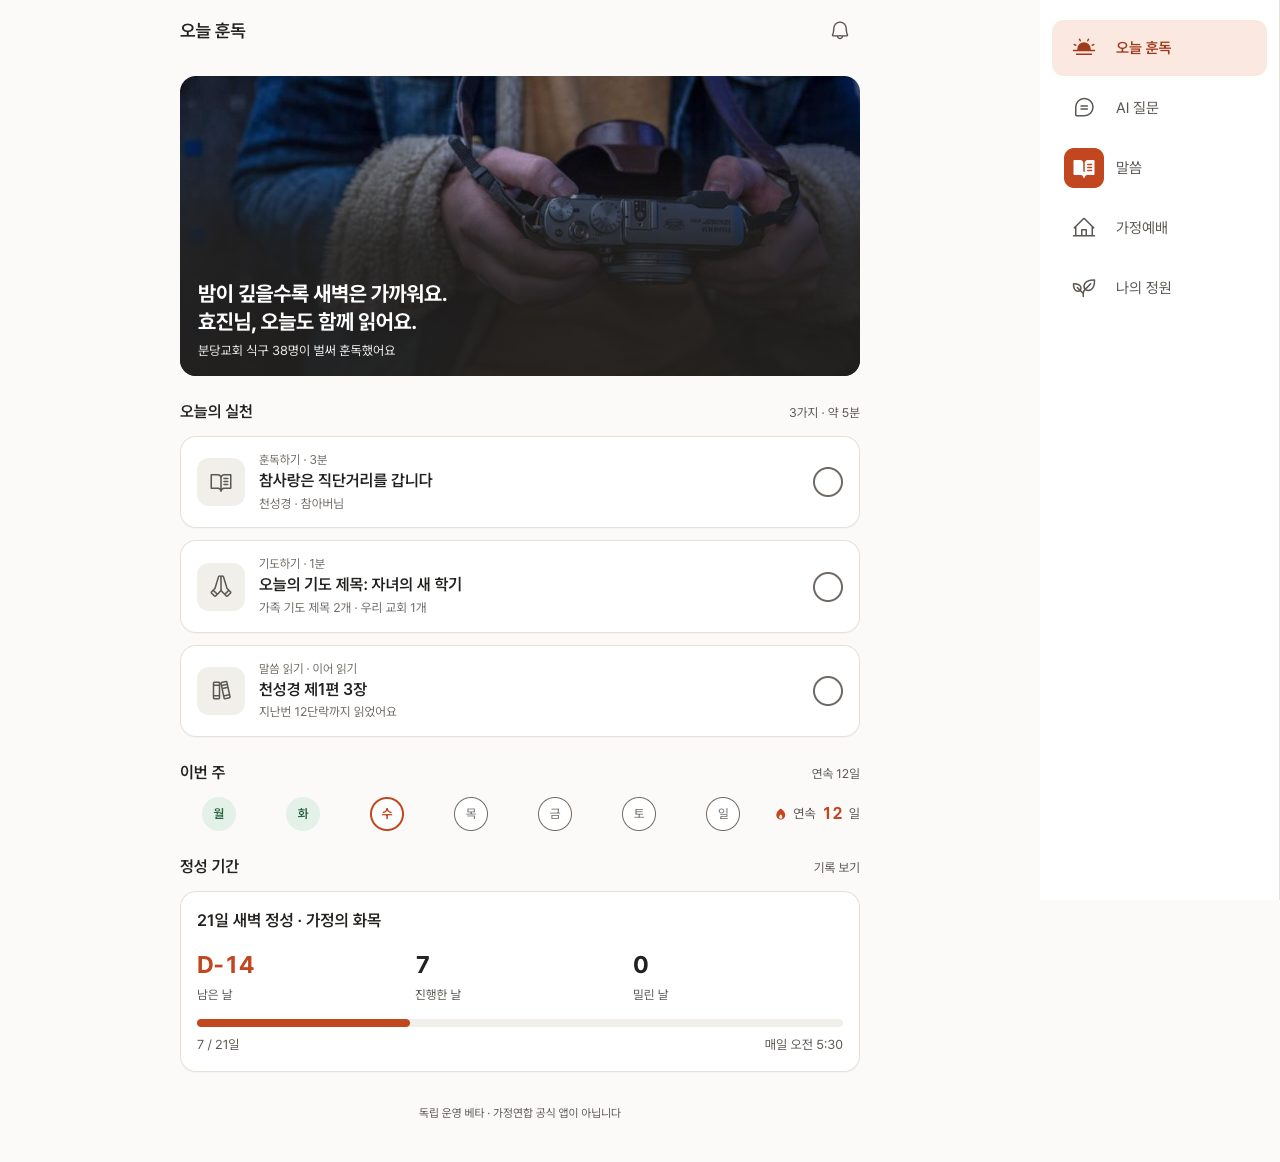
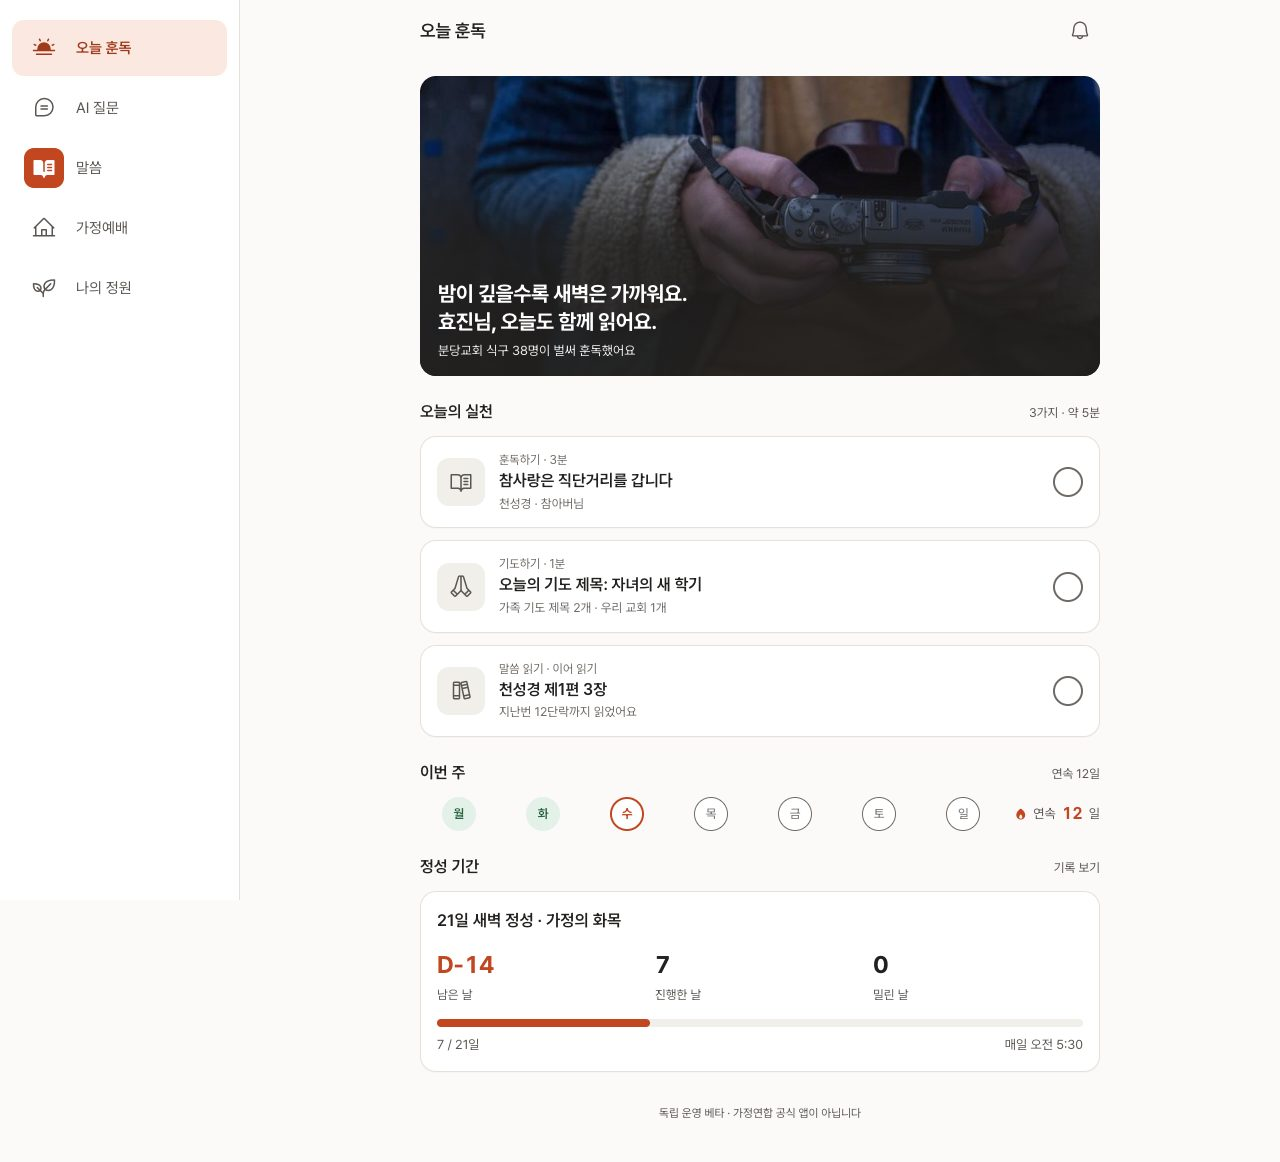
fix(design): 훈독 데스크톱 레일을 좌측으로 (DES-PWA-003 §4.1) — order:-1
main 뒤의 nav 가 DOM 순서대로 우측에 붙던 베이스 결함. A 안 PC 캡처 2장 재촬영, DES-PWA-005 §6 에 기록

diff --git a/docs/prd/prototypes/hoondok-ds/hoondok.css b/docs/prd/prototypes/hoondok-ds/hoondok.css
@@ -238,7 +238,8 @@ mark.hl-1{background:var(--hl-1)} mark.hl-2{background:var(--hl-2)} mark.hl-3{ba
    ============================================================================= */
 @media (min-width:1024px){
   .app{flex-direction:row}
-  .nav{position:sticky;top:0;height:100dvh;width:var(--rail-w);flex:none;
+  /* 마크업은 하단 탭용으로 main 다음에 nav 가 온다. 좌측 레일(DES-PWA-003 §4.1)은 order 로 앞당긴다 */
+  .nav{position:sticky;top:0;height:100dvh;width:var(--rail-w);flex:none;order:-1;
     display:flex;flex-direction:column;gap:4px;
     grid-template-columns:none;border-top:0;border-right:1px solid var(--line);
     padding:20px 12px;min-height:0}
